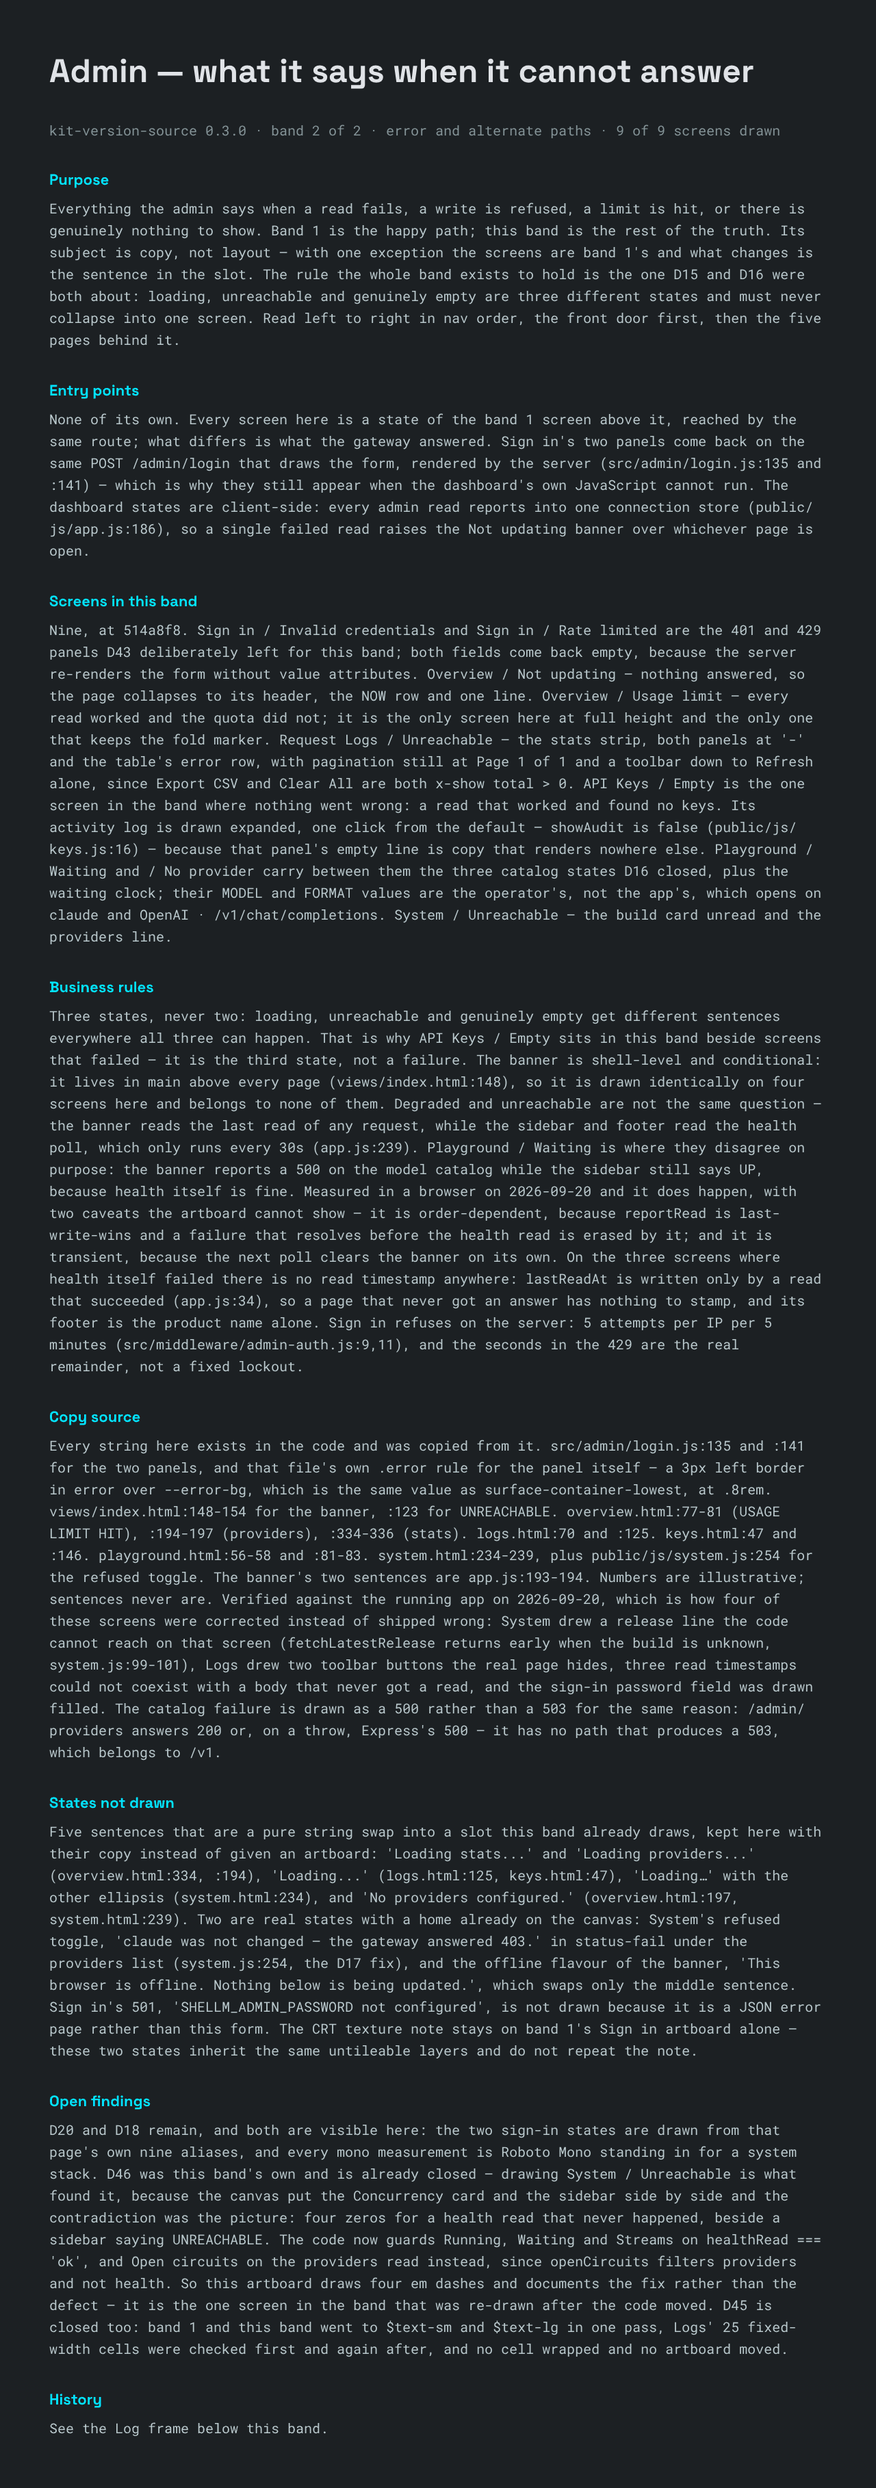
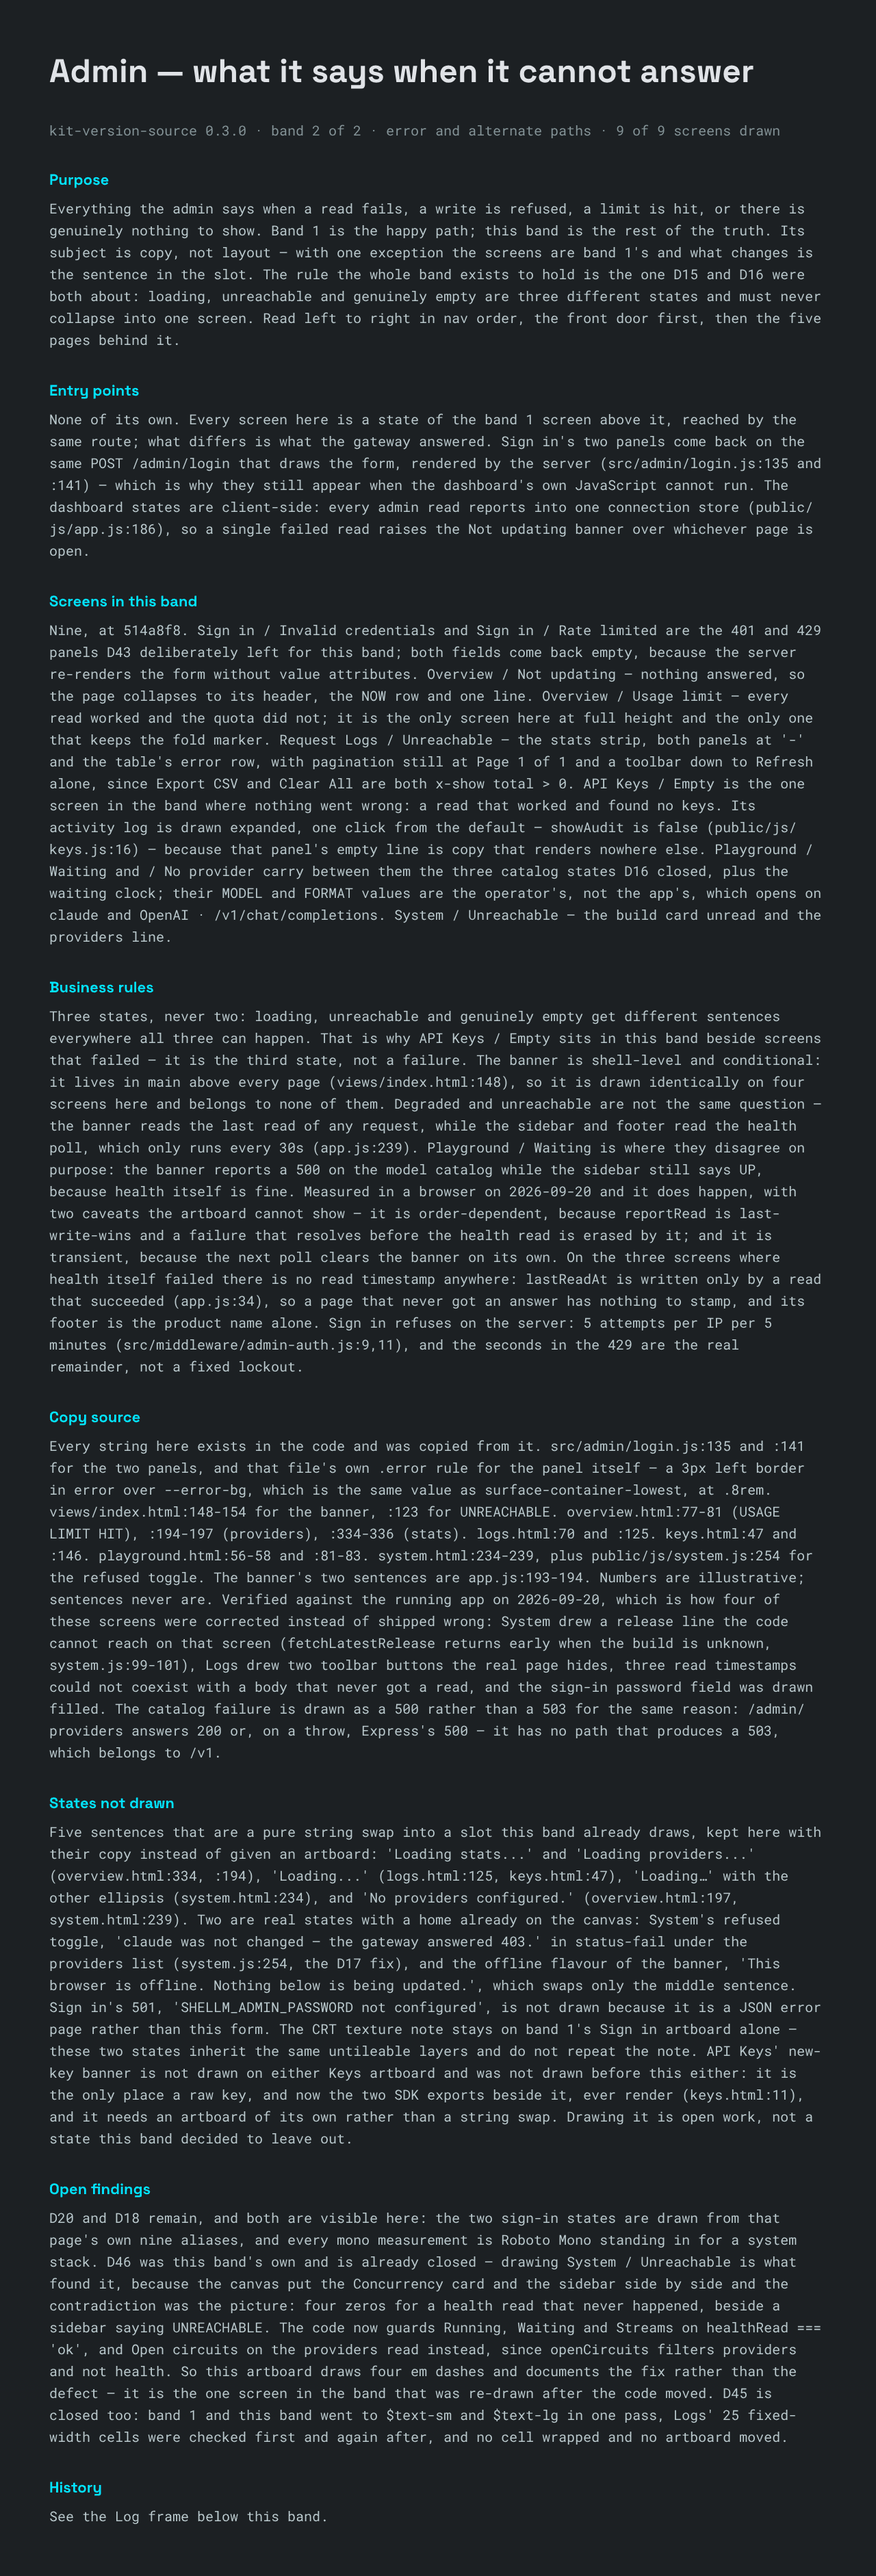
feat(admin): tell the operator where to send the key it just created
The Keys page named no host. A key was shown once, in full, next to
nothing that said what to point at it — the one screen where that
question is asked was the one screen that did not answer it.

The header now carries the base URL, read from the origin the operator
is already on, so it is there whether or not a key was just created. The
new-key banner carries the two SDK exports with the key in them.
OPENAI_BASE_URL takes /v1 and ANTHROPIC_BASE_URL must not, which is why
a snippet beats a sentence; the test asserts the asymmetry, because a
single shared value breaks one of the two and looks right doing it.

Carries one fix that is not the feature: both create and rotate return
raw_key, so a banner inferring its verb from that value could only ever
say "created". It said so after every rotation. The verb is explicit now.

On canvas only the header could be mirrored — the banner has no artboard
on either Keys screen and never had one. That is recorded in band 2's
states-not-drawn rather than left as a hole.

Changed region(s): [[0.0625, 0.0, 0.9375, 0.9945]]

diff --git a/test/admin/keys-usage.test.js b/test/admin/keys-usage.test.js
@@ -1,0 +1,75 @@
+'use strict';
+
+const { describe, it } = require('node:test');
+const assert = require('node:assert/strict');
+const fs = require('node:fs');
+const path = require('node:path');
+const vm = require('node:vm');
+
+const JS_DIR = path.join(__dirname, '../../src/admin/public/js');
+const { compose } = require('../../src/admin/views');
+
+function loadKeys(origin) {
+  const stores = {};
+  const context = vm.createContext({
+    console, Intl, Date, URLSearchParams,
+    Alpine: { store: (n, v) => (v === undefined ? stores[n] : (stores[n] = v)) },
+    fetch: async () => ({ ok: true, status: 200, json: async () => ({}), headers: { get: () => null } }),
+    navigator: { onLine: true },
+    setTimeout: (fn) => { Promise.resolve().then(fn); return 0; },
+    clearTimeout: () => {}, setInterval: () => 0,
+    location: { pathname: '/admin/dashboard', hash: '', replace: () => {} },
+    window: { addEventListener: () => {}, location: { origin } },
+    document: { addEventListener: () => {} },
+  });
+  for (const file of ['app.js', 'keys.js']) {
+    vm.runInContext(fs.readFileSync(path.join(JS_DIR, file), 'utf8'), context, { filename: file });
+  }
+  return context.keysPage();
+}
+
+const keysPageHtml = () => {
+  const html = compose();
+  const start = html.indexOf('<!-- KEYS PAGE -->');
+  const end = html.indexOf('<!-- Table -->', start);
+  assert.ok(start > -1 && end > start, 'the Keys page still starts with its banner and header');
+  const page = html.slice(start, end);
+  return page;
+};
+
+describe('a created key says where to send it', () => {
+  it('reads the base URL off the origin the operator is already on', () => {
+    assert.strictEqual(loadKeys('https://shellm.example.dev').baseUrl, 'https://shellm.example.dev');
+    assert.strictEqual(loadKeys('http://127.0.0.1:6100').baseUrl, 'http://127.0.0.1:6100');
+  });
+
+  it('shows the header base URL whether or not a key was just created', () => {
+    const page = keysPageHtml();
+    assert.match(page, /x-text="baseUrl"/);
+  });
+
+  // The asymmetry is the whole reason the snippet exists: an OpenAI client appends nothing to the
+  // base URL and an Anthropic one appends /v1, so a single shared value breaks one of them.
+  it('gives the OpenAI base URL a /v1 the Anthropic one must not have', () => {
+    const page = loadKeys('https://shellm.example.dev');
+    page.newKeyResult = { raw_key: 'shellm-deadbeef', action: 'created' };
+    const [openai, anthropic] = page.usageSnippet.split('\n');
+
+    assert.match(openai, /OPENAI_BASE_URL=https:\/\/shellm\.example\.dev\/v1 /);
+    assert.match(anthropic, /ANTHROPIC_BASE_URL=https:\/\/shellm\.example\.dev /);
+    assert.doesNotMatch(anthropic, /ANTHROPIC_BASE_URL=\S+\/v1/);
+    for (const line of [openai, anthropic]) assert.match(line, /shellm-deadbeef$/);
+  });
+
+  it('has nothing to show before a key is created', () => {
+    assert.strictEqual(loadKeys('https://shellm.example.dev').usageSnippet, '');
+  });
+
+  // Both endpoints return raw_key, so a banner that infers the verb from its presence can only
+  // ever say one of the two words.
+  it('calls a rotation a rotation', () => {
+    const page = keysPageHtml();
+    assert.match(page, /x-text="newKeyResult\?\.action"/);
+    assert.doesNotMatch(page, /'created' : 'rotated'/);
+  });
+});

diff --git a/src/admin/views/pages/keys.html b/src/admin/views/pages/keys.html
@@ -1,8 +1,11 @@
       <!-- KEYS PAGE -->
       <div x-show="page === 'keys'" x-data="keysPage()" x-effect="if (page === 'keys' && keys.length === 0 && loading) { fetchKeys(); fetchAuditLogs(); }">
 
-        <header class="mb-6">
+        <header class="mb-6 flex items-baseline justify-between gap-4 flex-wrap">
           <h2 class="text-xl font-bold font-headline tracking-tighter text-on-surface">API KEYS<span class="text-primary-container">_</span></h2>
+          <p class="text-[11px] font-mono text-outline">
+            Base URL <span class="text-on-surface-variant select-all" x-text="baseUrl"></span>
+          </p>
         </header>
 
         <!-- New key banner -->
@@ -10,10 +13,12 @@
           <div class="flex justify-between items-start">
             <div>
               <p class="text-sm font-headline font-bold text-white">
-                Key <span x-text="newKeyResult?.raw_key ? 'created' : 'rotated'"></span> — "<span x-text="newKeyResult?.name"></span>"
+                Key <span x-text="newKeyResult?.action"></span> — "<span x-text="newKeyResult?.name"></span>"
               </p>
               <p class="text-[11px] text-outline font-mono mt-1">Copy this key now — it won't be shown again.</p>
               <code class="block mt-3 bg-surface-container-lowest border border-outline-variant/40 px-4 py-3 text-sm font-mono text-primary-container select-all" x-text="newKeyResult?.raw_key"></code>
+              <p class="text-[11px] text-outline font-mono mt-4">Point a client at it — the official SDKs read these, anything else sends the key as <span class="text-on-surface-variant">Authorization: Bearer</span> or <span class="text-on-surface-variant">x-api-key</span>.</p>
+              <code class="block mt-2 bg-surface-container-lowest border border-outline-variant/40 px-4 py-3 text-[11px] font-mono text-on-surface-variant whitespace-pre-wrap select-all" x-text="usageSnippet"></code>
             </div>
             <button @click="newKeyResult = null" class="text-outline hover:text-white text-xl ml-4">&times;</button>
           </div>

diff --git a/src/admin/public/js/keys.js b/src/admin/public/js/keys.js
@@ -15,6 +15,19 @@ function keysPage() {
     auditError: null,
     showAudit: false,
 
+    get baseUrl() {
+      return window.location.origin;
+    },
+
+    // The two base URLs differ on purpose: the OpenAI clients append /v1 to nothing, the Anthropic
+    // ones append it themselves.
+    get usageSnippet() {
+      const key = this.newKeyResult?.raw_key;
+      if (!key) return '';
+      return `export OPENAI_BASE_URL=${this.baseUrl}/v1 OPENAI_API_KEY=${key}\n`
+        + `export ANTHROPIC_BASE_URL=${this.baseUrl} ANTHROPIC_API_KEY=${key}`;
+    },
+
     async fetchKeys() {
       this.loading = true;
       try {
@@ -62,7 +75,7 @@ function keysPage() {
         });
         if (res.ok) {
           const data = await res.json();
-          this.newKeyResult = data.key;
+          this.newKeyResult = { ...data.key, action: 'created' };
           this.createForm = { name: '', rpm: 10, models: '', expires_at: '', description: '' };
           this.showCreateModal = false;
           await this.fetchKeys();
@@ -150,7 +163,7 @@ function keysPage() {
           return alert(err.message || 'Failed to rotate key');
         }
         const data = await res.json();
-        this.newKeyResult = { ...data.key, name: key.name };
+        this.newKeyResult = { ...data.key, name: key.name, action: 'rotated' };
         await this.fetchKeys();
         await this.fetchAuditLogs();
       } catch { alert('Network error'); }
